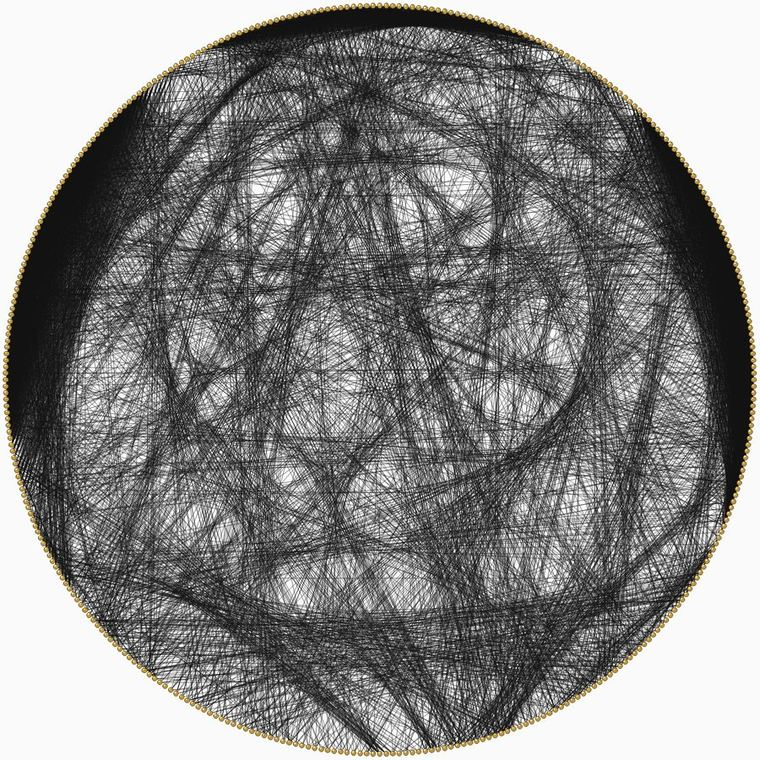
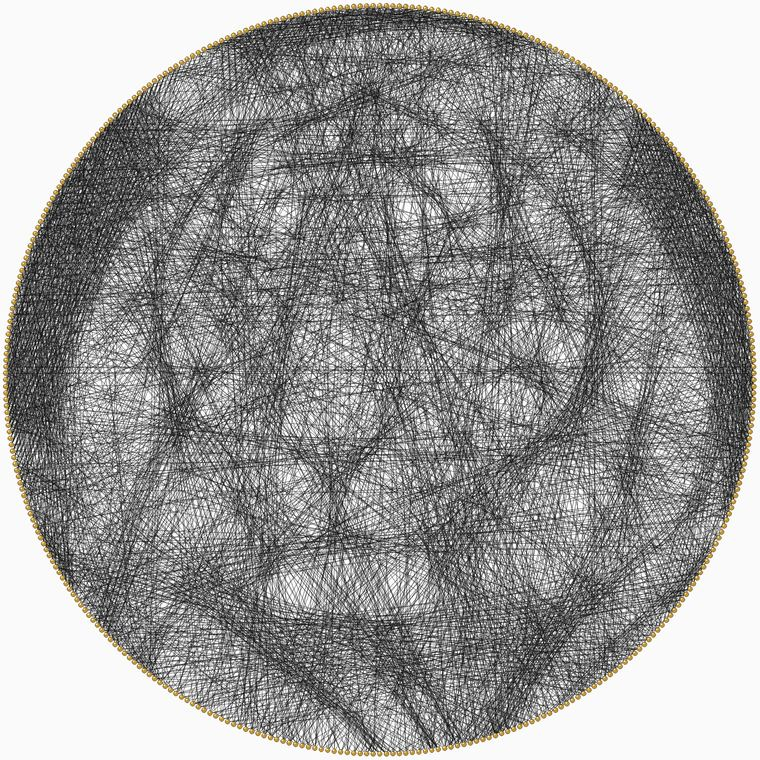
Engine Einfarbig: physikalische Fadendeckung (E_PHYS 0,444) und 2.000 statt 4.500 Fäden bei 360 Nägeln (1.600 statt 3.500 bei 240)
Test mit 4 Fotos: Ähnlichkeit 81,9 -> 93,2. Vorher wurde jeder Faden 40 % zu schwach gerechnet, dadurch zu viele Fäden und zu dunkle Bilder.
Schwarz + Weiß zeichnet jetzt ebenfalls physikalisch (Vorschau so dunkel wie das echte Brett). Mehrfarbig unverändert.
Startseite: Schwarz-Beispiele mit der neuen Engine.

Claude-Session: https://claude.ai/code/session_01MQd3Ez1WfSEqrkkXqKTc86

diff --git a/app.py b/app.py
@@ -113,13 +113,16 @@ DISC = {  # Farbe des Kreises in der Mitte
 }
 THICKS = ("0.15", "0.20", "0.30", "0.40", "0.60")   # echte Fadendicke in mm
 E_REF, D0_CM = 0.274, 45.0     # Referenz: 0,20 mm Faden auf einem Bild von 45 cm Durchmesser (50-cm-Brett)
+E_PHYS = 0.444                 # physikalisch: 0,20 mm Faden / 0,45 mm Pixelbreite (45 cm auf 1000 px). Einfarbig und Schwarz + Weiß
+                               # rechnen und zeichnen damit (Test 14.10.2026: Ähnlichkeit 81,9 -> 93,2, Vorschau so dunkel wie das echte Brett)
 ROUND_FORMATS = {"rund"}; ROUND_AREA = 0.785   # Rundes Holz: Fläche = Kreis, Preis nach Fläche
 PINCOL = {  # Farbe der Nägel
     "gold": ("Gold", (212, 175, 55)), "silber": ("Silber", (205, 205, 205)),
     "schwarz": ("Schwarz", (30, 30, 30)), "weiss": ("Weiß", (245, 245, 245)),
     "kupfer": ("Kupfer", (184, 115, 51)),
 }
-LINES = {240: 3500, 360: 4500}   # Fäden je Pin-Zahl (Einfarbig)
+LINES = {240: 3500, 360: 4500}   # Fäden je Pin-Zahl (Basis für Mehrfarbig)
+LINES_ONE = {240: 1600, 360: 2000}   # Einfarbig (14.10.2026): 4.500 Fäden machten das Bild zu dunkel; 2.000 mit E_PHYS ist am nächsten am Foto
 LINES_MULTI = {240: 8000, 360: 10000}   # Höchstzahl für Mehrfarbig
 MAX_USE = 1                   # Einfarbig: so oft darf dieselbe Sehne gezogen werden
 BG_TONE = 0.0                 # freigestellter Hintergrund: gleichmäßige Dunkelheit (0 = neutral; < 0: Linien meiden ihn, wirkt fleckig)
@@ -593,8 +596,8 @@ def compute_string_art(ref, m, key="a"):
     # Maßstab: derselbe Faden wirkt auf einem größeren Bild feiner, auf einem kleineren kräftiger
     disc_cm = max(10.0, ring_cm(m))
     t_mm = float(m["thick"])
-    a = min(0.4, max(0.02, E_REF * (t_mm / 0.20) * (D0_CM / disc_cm) / LW))     # Deckkraft pro Faden
-    n_lines = int((LINES[n] * MULTI_LINES_F if K > 1 and MULTI_LINEAR else (LINES if K == 1 else LINES_MULTI)[n]) * min(1.6, max(1.0, (0.20 / t_mm) * (disc_cm / D0_CM))))   # feinerer Faden braucht mehr Linien
+    a = min(0.4, max(0.02, (E_PHYS if K == 1 else E_REF) * (t_mm / 0.20) * (D0_CM / disc_cm) / LW))     # Deckkraft pro Faden
+    n_lines = int((LINES[n] * MULTI_LINES_F if K > 1 and MULTI_LINEAR else (LINES_ONE if K == 1 else LINES_MULTI)[n]) * min(1.6, max(1.0, (0.20 / t_mm) * (disc_cm / D0_CM))))   # feinerer Faden braucht mehr Linien
     geo = geometry(n)
     px, py, rp, ok, nsc = geo["px"], geo["py"], geo["rp"], geo["ok"], geo["nsc"]
     ln = ((1 if K == 1 or MULTI_LINEAR else geo["L"]) / nsc).astype(np.float32)   # lineares Modell: Durchschnitt, Farbmodell: Summe
@@ -754,7 +757,7 @@ def compute_sw(ref, m, key):
     LIVE, lk = 600, 600 / W_IMG                             # Live-Bild wie bei compute_string_art
     live = Image.new("RGB", (LIVE, LIVE), disc)
     ld = ImageDraw.Draw(live, "RGBA")
-    a = min(0.4, max(0.02, E_REF * (t_mm / 0.20) * (D0_CM / disc_cm) / LINE_W))
+    a = min(0.4, max(0.02, E_PHYS * (t_mm / 0.20) * (D0_CM / disc_cm) / LINE_W))   # Zeichnen wie Engine 2 rechnet (physikalisch)
     lalpha = min(255, int(255 * a * LINE_W * lk))
     state = {"drawn": 0, "n": 0}
     seq, cseq, started = [], [], set()                      # Live-Linien für den Browser (jede Linie einzeln gezeichnet)
